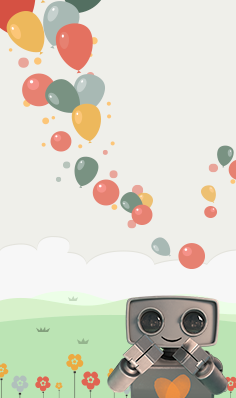
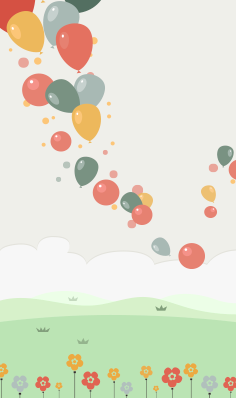
슬라이드 부분 수정

Changed region(s): [[0.4449, 0.7236, 0.9788, 1.0]]

diff --git a/css/sub.css b/css/sub.css
@@ -269,6 +269,46 @@ input[type="checkbox"]:focus {
 	-webkit-box-shadow: 2px 7px 26px 2px rgba(190, 178, 161, 0.6);
 	box-shadow: 2px 7px 26px 2px rgba(190, 178, 161, 0.6);
 }
+.sub-wrap .inner .slider-area .bot {
+	position: absolute;
+/*
+	width: 123px;
+	height: 105px;
+*/
+	width: 156px;
+	bottom: 0;
+	right: 0;
+	z-index: 9;
+}
+.sub-wrap .inner .slider-area .bot span {
+	display: block;
+	margin: 0 0 0 auto;
+}
+.sub-wrap .inner .slider-area .bot._0 span {
+	background: url(../images/sub_step2_bot_1.png) center / 123px 105px no-repeat;
+	width: 123px;
+	height: 105px;
+}
+.sub-wrap .inner .slider-area .bot._1 span {
+	background: url(../images/sub_step2_bot_2.png) center / 129px 104px no-repeat;
+	width: 129px;
+	height: 104px;
+}
+.sub-wrap .inner .slider-area .bot._2 span {
+	background: url(../images/sub_step2_bot_3.png) center / 156px 110px no-repeat;
+	width: 156px;
+	height: 110px;
+}
+.sub-wrap .inner .slider-area .bot._3 span {
+	background: url(../images/sub_step2_bot_4.png) center / 123px 105px no-repeat;
+	width: 123px;
+	height: 105px;
+}
+.sub-wrap .inner .slider-area .bot._4 span {
+	background: url(../images/sub_step2_bot_5.png) center / 129px 110px no-repeat;
+	width: 129px;
+	height: 110px;
+}
 .sub-wrap .inner .slider-area .prev-button {
 	position: absolute;
 	top: 50%;

diff --git a/sub2.html b/sub2.html
@@ -68,6 +68,7 @@
 									<div class="input"><input type="text" placeholder="보내시는 분"></div>
 								</div>
 							</div>
+							<div class="bot _0"><span></span></div>
 							<div class="swiper-wrapper">
 								<div class="swiper-slide slide _1">
 									<img src="./images/sub_step2_card1_new.png" alt="">
@@ -283,10 +284,9 @@
 			}
 		});
 		
-		swiper.on('slideChange', function() {
-//			console.log(this.realIndex);
+		swiper.on('slideChangeTransitionEnd', function() {
+			$('.slide-wrap .bot').removeClass('_'+this.previousIndex).addClass('_'+(this.realIndex));
 		});
-
     </script>
 </body>
 </html>
